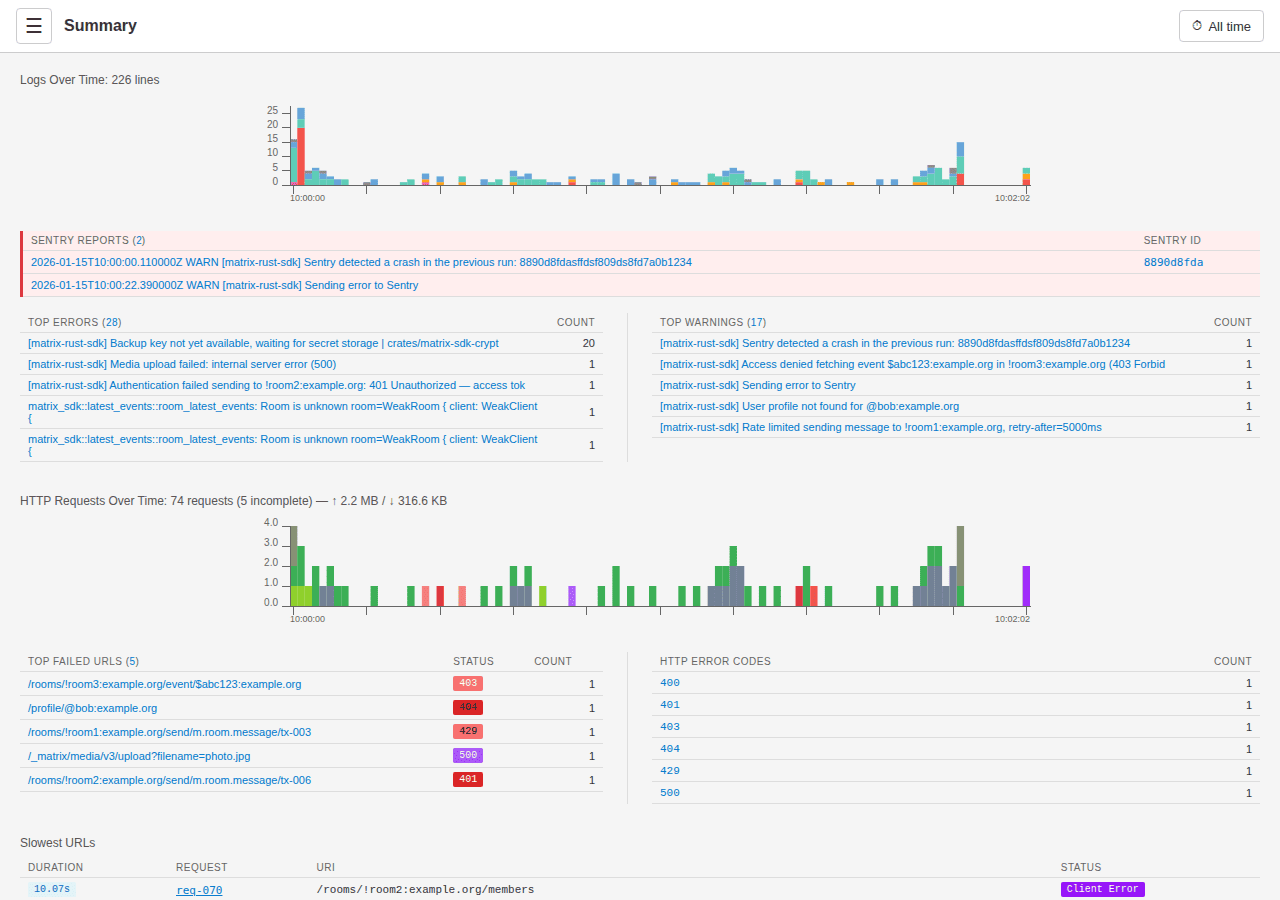
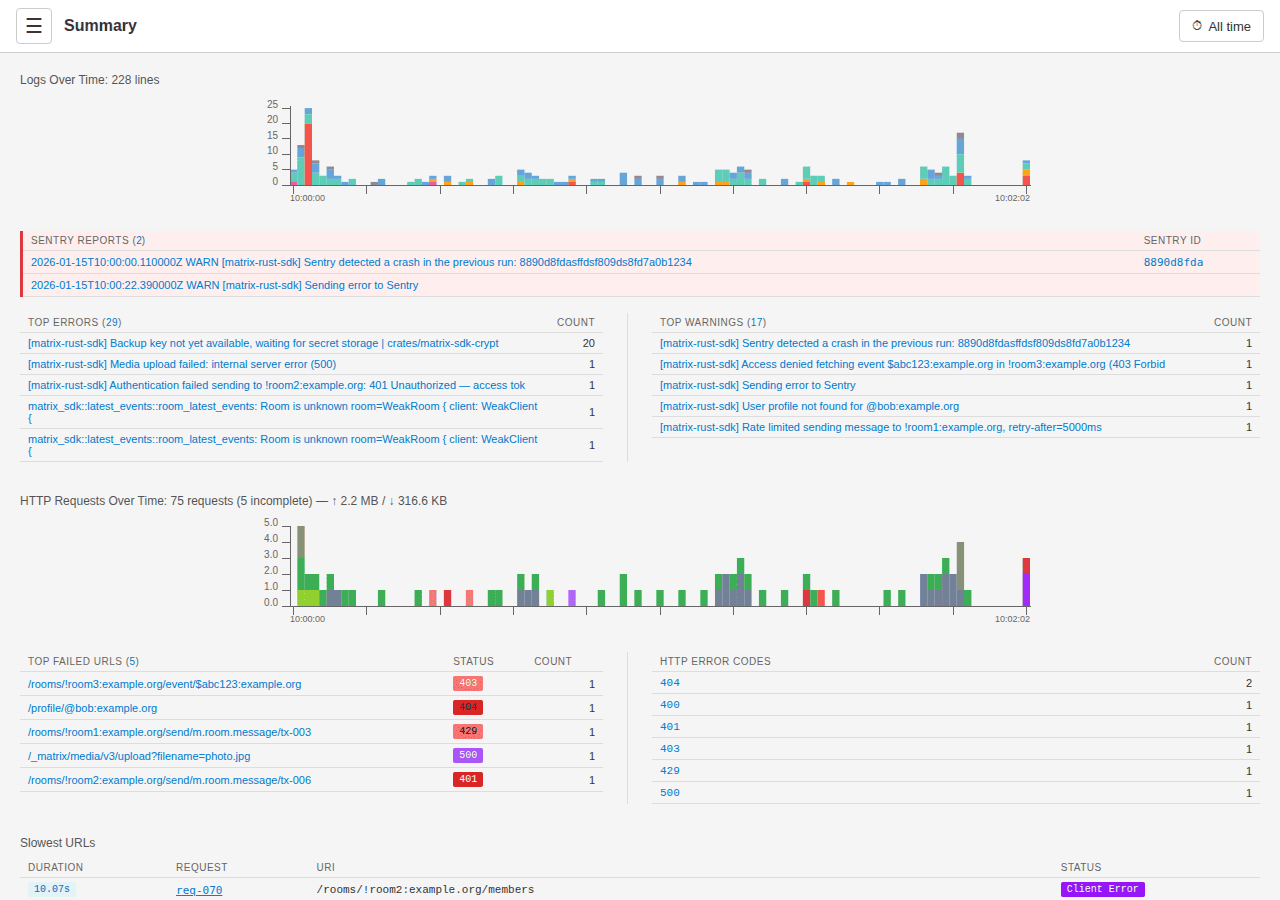
fix(parser): detect HTTP requests with no request_size in span (#29)
* fix(parser): detect HTTP requests with no request_size in span

Some SDK error responses (e.g. 404 API errors) emit a send{} span that
includes status/response_size/request_duration but omits request_size=.
Make request_size= optional in HTTP_RESP_RE and HTTP_SEND_RE so these
requests are parsed and surfaced in /http_requests and /summary.

* chore: update screenshots

* refactor: use HTTP_CLIENT_ERROR_RE.test() instead of string literal guard

---------

diff --git a/src/utils/__tests__/logParser.test.ts b/src/utils/__tests__/logParser.test.ts
@@ -30,6 +30,12 @@ const SEND_LINE_REQ99 = '2026-01-26T17:02:45.000000Z  INFO matrix_sdk::http_clie
 // Send line for REQ-100 (appears before the connect error)
 const SEND_LINE_REQ100 = '2026-01-26T17:02:55.990000Z  INFO matrix_sdk::http_client::native: Sending request | crates/matrix-sdk/src/http_client/native.rs:89 | spans: root > send{request_id="REQ-100" method=POST uri="https://matrix-client.matrix.org/_matrix/client/v3/keys/upload" request_size="512"}';
 
+// Send line without request_size= in span (observed with some API error paths in the SDK).
+const SEND_LINE_NO_REQUEST_SIZE = '2026-03-11T12:52:18.399611Z DEBUG matrix_sdk::http_client::native: Sending request num_attempt=1 | crates/matrix-sdk/src/http_client/native.rs:78 | spans: keys_query{request_id="0c7a35d0af474b258f4699e4fe0e7f38"} > update_state_after_keys_query > send{request_id="REQ-18" method=GET uri="https://matrix-client.matrix.org/_matrix/client/v3/user/@user:matrix.org/account_data/m.secret_storage.default_key"}';
+
+// Error response line for REQ-18 that carries a 404 status in its span but no request_size=.
+const HTTP_ERROR_404_LINE = '2026-03-11T12:52:18.485177Z ERROR matrix_sdk::http_client: Error while sending request: Api(Server(ClientApi(Error { status_code: 404, body: Standard(StandardErrorBody { kind: NotFound, message: "Account data not found" }) }))) | crates/matrix-sdk/src/http_client/mod.rs:218 | spans: keys_query{request_id="0c7a35d0af474b258f4699e4fe0e7f38"} > update_state_after_keys_query > send{request_id="REQ-18" method=GET uri="https://matrix-client.matrix.org/_matrix/client/v3/user/@user:matrix.org/account_data/m.secret_storage.default_key" status=404 response_size="58B" request_duration=85.251916ms}';
+
 describe('logParser', () => {
   describe('parseAllHttpRequests', () => {
     describe('basic parsing', () => {
@@ -489,6 +495,56 @@ describe('logParser', () => {
         const completed = result.httpRequests.find(r => r.status === '200');
         expect(completed).toBeDefined();
         expect(completed?.clientError).toBeUndefined();
+      });
+    });
+
+    describe('HTTP error responses without request_size in span', () => {
+      it('parses a 404 error response line that omits request_size', () => {
+        const result = parseAllHttpRequests(HTTP_ERROR_404_LINE);
+
+        expect(result.httpRequests).toHaveLength(1);
+        expect(result.httpRequests[0]).toMatchObject({
+          requestId: 'REQ-18',
+          method: 'GET',
+          uri: 'https://matrix-client.matrix.org/_matrix/client/v3/user/@user:matrix.org/account_data/m.secret_storage.default_key',
+          status: '404',
+          requestSizeString: '',
+          responseSizeString: '58B',
+          requestDurationMs: 85,
+          sendLineNumber: 0,
+          responseLineNumber: 1,
+        });
+        expect(result.httpRequests[0].clientError).toBeUndefined();
+      });
+
+      it('parses a send line that omits request_size', () => {
+        const result = parseAllHttpRequests(SEND_LINE_NO_REQUEST_SIZE);
+
+        expect(result.httpRequests).toHaveLength(1);
+        expect(result.httpRequests[0]).toMatchObject({
+          requestId: 'REQ-18',
+          method: 'GET',
+          status: '',
+          sendLineNumber: 1,
+          responseLineNumber: 0,
+        });
+      });
+
+      it('pairs a send line (no request_size) with its 404 error response', () => {
+        const content = [SEND_LINE_NO_REQUEST_SIZE, HTTP_ERROR_404_LINE].join('\n');
+        const result = parseAllHttpRequests(content);
+
+        expect(result.httpRequests).toHaveLength(1);
+        expect(result.httpRequests[0]).toMatchObject({
+          requestId: 'REQ-18',
+          method: 'GET',
+          status: '404',
+          responseSizeString: '58B',
+          requestDurationMs: 85,
+          sendLineNumber: 1,
+          responseLineNumber: 2,
+        });
+        expect(result.httpRequests[0].clientError).toBeUndefined();
       });
     });
   });

diff --git a/src/utils/logParser.ts b/src/utils/logParser.ts
@@ -5,8 +5,9 @@ import { parseSizeString } from './sizeUtils';
 import { ParsingError } from './errorHandling';
 
 // Regex patterns for parsing HTTP requests - generic (all URIs)
-const HTTP_RESP_RE = /send\{request_id="(?<id>[^"]+)"\s+method=(?<method>\S+)\s+uri="(?<uri>[^"]+)"\s+request_size="(?<req_size>[^"]+)"\s+status=(?<status>\S+)\s+response_size="(?<resp_size>[^"]+)"\s+request_duration=(?<duration_val>[0-9.]+)(?<duration_unit>ms|s)/;
-const HTTP_SEND_RE = /send\{request_id="(?<id>[^"]+)"\s+method=(?<method>\S+)\s+uri="(?<uri>[^"]+)"\s+request_size="(?<req_size>[^"]+)"(?![^}]*(?:status=|response_size=|request_duration=))/;
+// request_size= is optional: some SDK log lines (e.g. API error responses) omit it from the span.
+const HTTP_RESP_RE = /send\{request_id="(?<id>[^"]+)"\s+method=(?<method>\S+)\s+uri="(?<uri>[^"]+)"(?:\s+request_size="(?<req_size>[^"]+)")?\s+status=(?<status>\S+)\s+response_size="(?<resp_size>[^"]+)"\s+request_duration=(?<duration_val>[0-9.]+)(?<duration_unit>ms|s)/;
+const HTTP_SEND_RE = /send\{request_id="(?<id>[^"]+)"\s+method=(?<method>\S+)\s+uri="(?<uri>[^"]+)"(?:\s+request_size="(?<req_size>[^"]+)")?(?![^}]*(?:status=|response_size=|request_duration=))/;
 
 // Regex for client-side transport errors (no HTTP response received, e.g. timeout, connection failure).
 // These log lines have the send{} span without request_size=.
@@ -215,8 +216,13 @@ export function parseAllHttpRequests(logContent: string): AllHttpRequestsResult 
       continue;
     }
 
-    // Try to match send pattern
-    const sendMatch = line.match(HTTP_SEND_RE);
+    // Try to match send pattern.
+    // Lines that match HTTP_CLIENT_ERROR_RE are exclusively handled by the
+    // client-error path below, even when their span looks like a plain send
+    // (no request_size=, no status=). Skipping them here prevents the updated
+    // HTTP_SEND_RE (which no longer requires request_size=) from stealing those
+    // lines before the client-error path can mark them as clientError records.
+    const sendMatch = !HTTP_CLIENT_ERROR_RE.test(line) ? line.match(HTTP_SEND_RE) : null;
     if (sendMatch && sendMatch.groups) {
       const requestId = sendMatch.groups.id;
 
@@ -260,7 +266,7 @@ export function parseAllHttpRequests(logContent: string): AllHttpRequestsResult 
       rec.sendLineNumber = i + 1;
     } else {
       // Try to match client-side error pattern (no HTTP response: timeout, connection failure, etc.).
-      // The send{} span in error lines omits request_size=, so HTTP_SEND_RE does not match.
+      // These lines contain "Error while sending request" and are skipped by HTTP_SEND_RE above.
       const clientErrMatch = line.match(HTTP_CLIENT_ERROR_RE);
       if (clientErrMatch && clientErrMatch.groups) {
         const requestId = clientErrMatch.groups.id;
